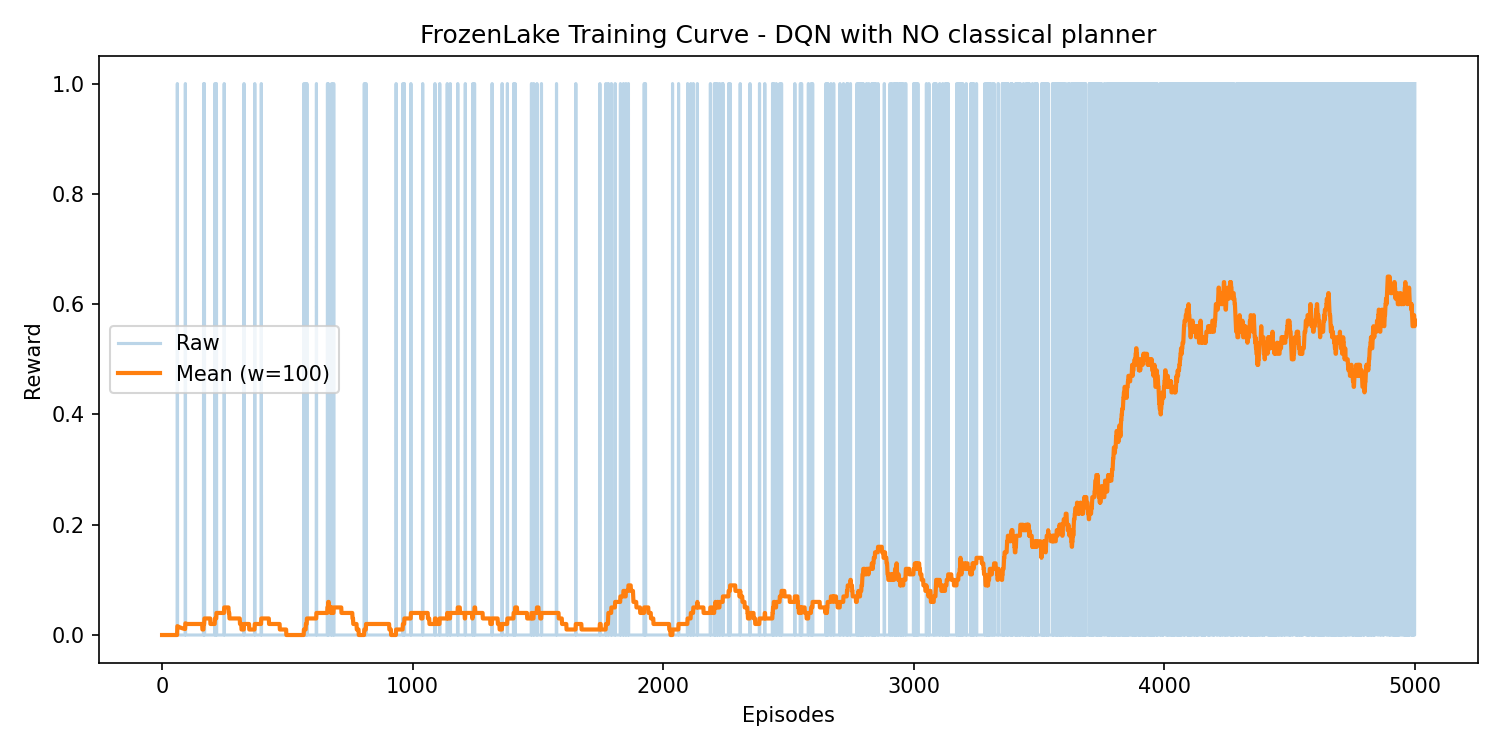
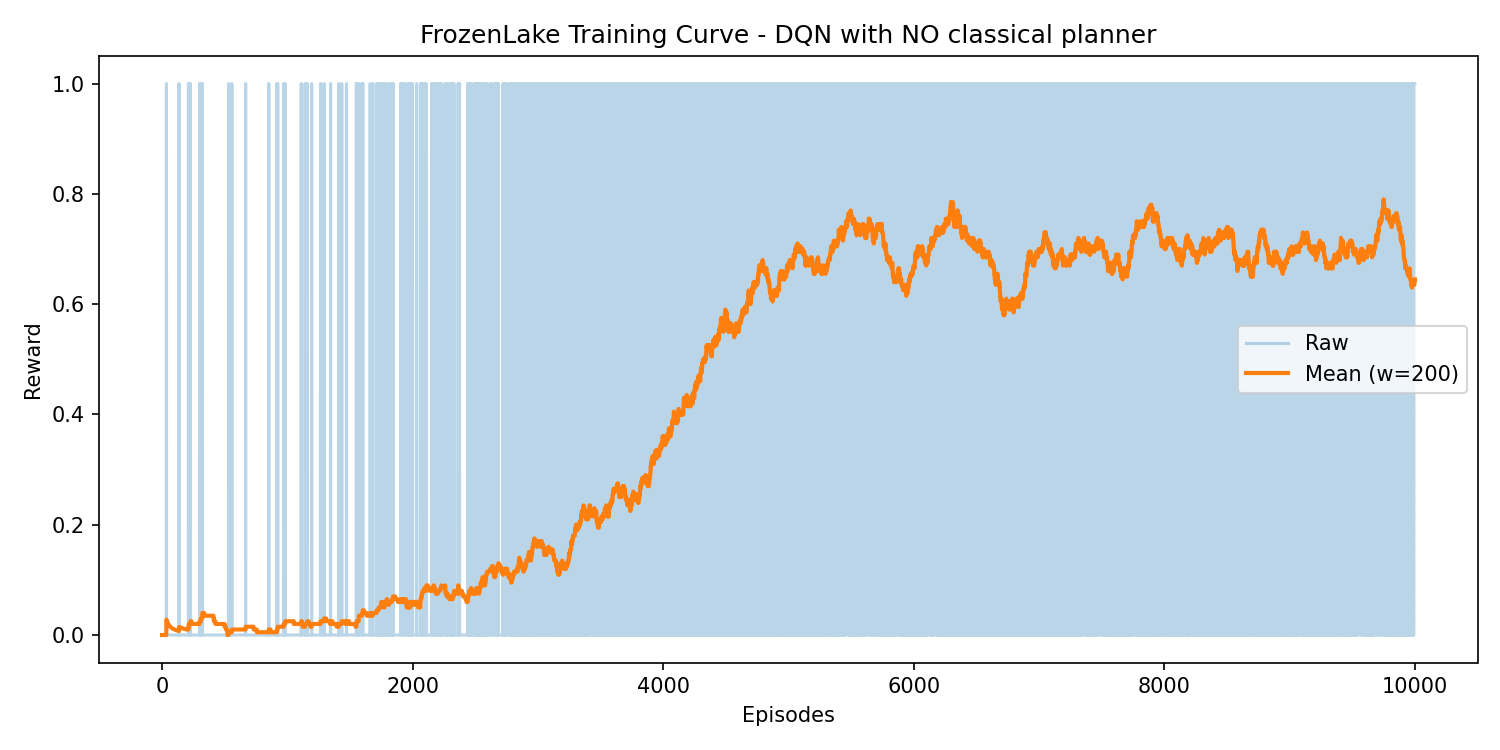
Implemented customized environment of gymnasium with parametrized probability for slippery

diff --git a/planned-deterministic-frozen-lake/slippery_probability_wrapper.py b/planned-deterministic-frozen-lake/slippery_probability_wrapper.py
@@ -1,0 +1,148 @@
+import unittest
+from typing import Tuple
+
+import gymnasium as gym
+from gymnasium import Wrapper
+
+
+LEFT = 0
+DOWN = 1
+RIGHT = 2
+UP = 3
+ACTIONS = (LEFT, DOWN, RIGHT, UP)
+EPS = 1e-6
+
+
+class SlipperyProbabilityWrapper(Wrapper):
+    # FrozenLake wrapper that rewrites transition probabilities in `P`.
+
+    def __init__(self, env, p_nominal: float = 0.8, p_slip: float = 0.1):
+        super().__init__(env)
+        self.p_nominal = float(p_nominal)
+        self.p_slip = float(p_slip)
+        self._validate_probabilities()
+        self._modify_probabilities()
+
+    def _validate_probabilities(self) -> None:
+        if self.p_nominal < 0 or self.p_slip < 0:
+            raise ValueError("Probabilities must be non-negative.")
+        if abs((self.p_nominal + 2 * self.p_slip) - 1.0) > EPS:
+            raise ValueError("Expected p_nominal + 2 * p_slip == 1.0.")
+
+    def _next_state_data(self, state: int, action: int) -> Tuple[int, float, bool]:
+        inner_env = self.env.unwrapped
+        n_row, n_col = inner_env.nrow, inner_env.ncol
+
+        row, col = state // n_col, state % n_col
+        if action == LEFT:
+            col = max(0, col - 1)
+        elif action == DOWN:
+            row = min(n_row - 1, row + 1)
+        elif action == RIGHT:
+            col = min(n_col - 1, col + 1)
+        elif action == UP:
+            row = max(0, row - 1)
+
+        next_state = row * n_col + col
+        tile = inner_env.desc[row, col]
+        reward = float(tile == b"G")
+        terminated = tile in b"GH"
+        return next_state, reward, terminated
+
+    @staticmethod
+    def _perpendicular_actions(action: int) -> Tuple[int, int]:
+        # Horizontal actions slip to vertical ones, and vice versa.
+        return (DOWN, UP) if action in (LEFT, RIGHT) else (LEFT, RIGHT)
+
+    def _modify_probabilities(self) -> None:
+        inner_env = self.env.unwrapped
+        n_states = inner_env.nrow * inner_env.ncol
+
+        for state in range(n_states):
+            for action in ACTIONS:
+                nominal = self._next_state_data(state, action)
+                slip_a, slip_b = self._perpendicular_actions(action)
+                slip_1 = self._next_state_data(state, slip_a)
+                slip_2 = self._next_state_data(state, slip_b)
+
+                inner_env.P[state][action] = [
+                    (self.p_nominal, *nominal),
+                    (self.p_slip, *slip_1),
+                    (self.p_slip, *slip_2),
+                ]
+
+
+class TestFrozenLakeProbabilities(unittest.TestCase):
+    def setUp(self):
+        self.p_nom = 0.8
+        self.p_slip = 0.1
+        base_env = gym.make("FrozenLake-v1", is_slippery=True)
+        self.env = SlipperyProbabilityWrapper(
+            base_env,
+            p_nominal=self.p_nom,
+            p_slip=self.p_slip,
+        )
+
+    def test_all_transitions_internal_matrix(self):
+        inner_env = self.env.unwrapped
+        p_matrix = inner_env.P
+        n_states = inner_env.nrow * inner_env.ncol
+
+        for state in range(n_states):
+            for action in ACTIONS:
+                transitions = p_matrix[state][action]
+                self.assertEqual(
+                    len(transitions),
+                    3,
+                    f"State {state}, action {action}: expected 3 transitions.",
+                )
+
+                probs = [t[0] for t in transitions]
+                count_nom = sum(1 for p in probs if abs(p - self.p_nom) < EPS)
+                count_slip = sum(1 for p in probs if abs(p - self.p_slip) < EPS)
+
+                self.assertEqual(
+                    count_nom,
+                    1,
+                    f"State {state}, action {action}: nominal probability not found once.",
+                )
+                self.assertEqual(
+                    count_slip,
+                    2,
+                    f"State {state}, action {action}: slip probability not found twice.",
+                )
+                self.assertAlmostEqual(
+                    sum(probs),
+                    1.0,
+                    places=7,
+                    msg=f"State {state}, action {action}: probabilities do not sum to 1.",
+                )
+
+    def test_nominal_action_integrity(self):
+        inner_env = self.env.unwrapped
+        p_matrix = inner_env.P
+        n_states = inner_env.nrow * inner_env.ncol
+
+        for state in range(n_states):
+            for action in ACTIONS:
+                expected_next, _, _ = self.env._next_state_data(state, action)
+                nominal_transitions = [
+                    transition
+                    for transition in p_matrix[state][action]
+                    if abs(transition[0] - self.p_nom) < EPS
+                ]
+                self.assertEqual(
+                    len(nominal_transitions),
+                    1,
+                    f"State {state}, action {action}: expected one nominal transition.",
+                )
+                actual_next = nominal_transitions[0][1]
+                self.assertEqual(
+                    actual_next,
+                    expected_next,
+                    f"State {state}, action {action}: nominal next-state mismatch.",
+                )
+
+
+if __name__ == "__main__":
+    unittest.main()

diff --git a/planned-deterministic-frozen-lake/planner.py b/planned-deterministic-frozen-lake/planner.py
@@ -63,18 +63,6 @@ def define_problem(env, current_state):
         # For all actions possible
         for a in range(4):
             next_state = _nominal_next_state(s, a, n_row, n_col)
-            n_row = next_state // n_col
-            n_col = next_state % n_col
-            next_tile = desc[n_row][n_col]
-            next_symbol = (
-                next_tile.decode("utf-8")
-                if isinstance(next_tile, bytes)
-                else str(next_tile)
-            )
-
-            # Do not generate actions that step into holes.
-            if next_symbol == "H":
-                continue
 
             action_name = f"move_{s}_{next_state}_{a}"
             action = InstantaneousAction(action_name)

diff --git a/planned-deterministic-frozen-lake/dqn_agent.py b/planned-deterministic-frozen-lake/dqn_agent.py
@@ -14,6 +14,7 @@ import torch.nn as nn
 import torch.optim as optim
 
 import planner
+from slippery_probability_wrapper import SlipperyProbabilityWrapper
 
 
 def format_frozen_lake_state(env, state: int) -> str:
@@ -227,7 +228,8 @@ def train_dqn(episodes, use_planner, rng_seed, env_seed, log_every=50):
     set_seed(rng_seed)
     env_base = env_seed
 
-    env = gym.make(ENV_ID, is_slippery=True)
+    base_env = gym.make(ENV_ID, is_slippery=True)
+    env = SlipperyProbabilityWrapper(base_env, p_nominal=0.8, p_slip=0.1)
 
     state_size = env.observation_space.n
     action_size = env.action_space.n

diff --git a/planned-deterministic-frozen-lake/main.py b/planned-deterministic-frozen-lake/main.py
@@ -5,7 +5,7 @@ from plot_utility import plot_test_distribution, plot_training_curve
 # --- Run Configuration ---
 RNG_SEED = 42
 ENV_SEED = None  # if None, uses RNG_SEED for Gymnasium env.reset base
-TRAIN_EPISODES = 5000
+TRAIN_EPISODES = 10000
 TEST_EPISODES = 100
 
 
